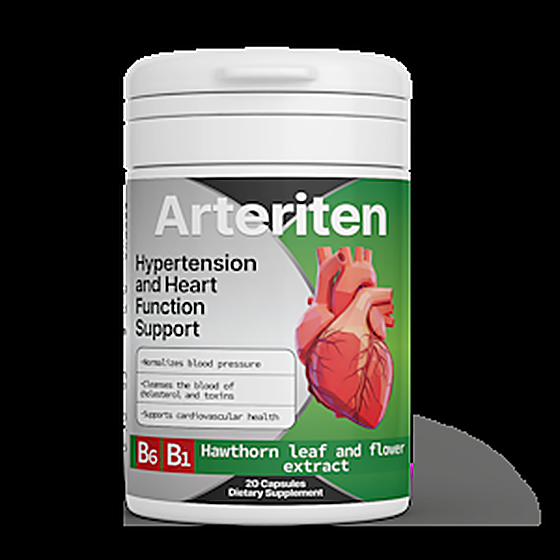
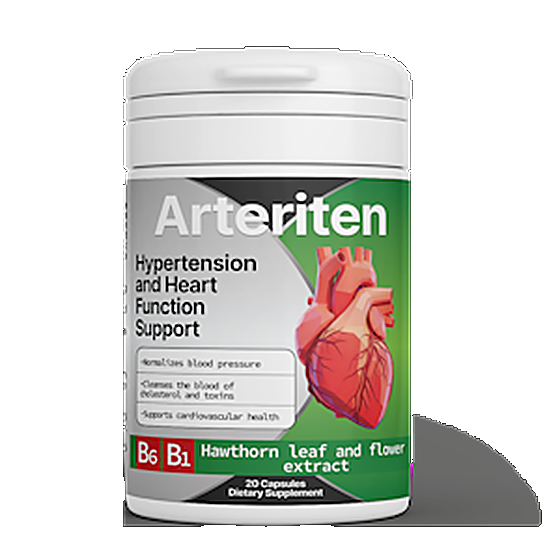
Фото: белый фон вместо чёрного — 763 кадра заливкой, 223 перерисовкой с автопроверкой текста

diff --git a/index.html b/index.html
@@ -52,7 +52,7 @@
 <div class="wrap">
   <header><img src="favicon.png" alt=""><h1>Gamintojo parduotuvė</h1></header>
   <div class="intro"><p>Tiesioginis kasdienei savijautai skirtų produktų pardavimas.</p></div>
-  <div class="grid"><a class="card" href="/cp/abslim/"><div class="ph"><img src="img/lbhd-15182.png" alt="ABSlim" loading="lazy"></div><div class="name">ABSlim</div><div class="price">39 €</div><div class="btn">UŽSISAKYTI ORIGINALĄ</div></a><a class="card" href="/cp/adamour/"><div class="ph"><img src="img/cp-4641.jpg" alt="Adamour" loading="lazy"></div><div class="name">Adamour</div><div class="price">39 €</div><div class="btn">UŽSISAKYTI ORIGINALĄ</div></a><a class="card" href="/tl/alco-win/"><div class="ph"><img src="img/tlhd-13031.png" alt="Alco Win" loading="lazy"></div><div class="name">Alco Win</div><div class="price">90 €</div><div class="btn">UŽSISAKYTI ORIGINALĄ</div></a><a class="card" href="/cp/alvarix/"><div class="ph"><img src="img/cp-16305.jpg" alt="Alvarix" loading="lazy"></div><div class="name">Alvarix</div><div class="price">39 €</div><div class="btn">UŽSISAKYTI ORIGINALĄ</div></a><a class="card" href="/mc/arteriten/"><div class="ph"><img src="img/mchd-5166.png" alt="Arteriten" loading="lazy"></div><div class="name">Arteriten</div><div class="price">39 €</div><div class="btn">UŽSISAKYTI ORIGINALĄ</div></a><a class="card" href="/dc/articulor-balm/"><div class="ph"><img src="img/dccard-29938.png" alt="Articulor balm" loading="lazy"></div><div class="name">Articulor balm</div><div class="price">1 pak. NEMOKAMAI</div><div class="btn">UŽSISAKYTI ORIGINALĄ</div></a><a class="card" href="/m1/artizynt/"><div class="ph"><img src="img/trafficlight-artizynt.jpg" alt="ArtiZynt" loading="lazy"></div><div class="name">ArtiZynt</div><div class="price">39 €</div><div class="btn">UŽSISAKYTI ORIGINALĄ</div></a><a class="card" href="/mc/artizynt/"><div class="ph"><img src="img/mchd-5380.png" alt="ArtiZynt Caps" loading="lazy"></div><div class="name">ArtiZynt Caps</div><div class="price">29 €</div><div class="btn">UŽSISAKYTI ORIGINALĄ</div></a><a class="card" href="/dc/artizynt/"><div class="ph"><img src="img/dccard-28370.png" alt="ArtiZynt Capsules" loading="lazy"></div><div class="name">ArtiZynt Capsules</div><div class="price">39 €</div><div class="btn">UŽSISAKYTI ORIGINALĄ</div></a><a class="card" href="/m1/artizynt-gel/"><div class="ph"><img src="img/meta-artizynt-gel.jpg" alt="ArtiZynt Gel" loading="lazy"></div><div class="name">ArtiZynt Gel</div><div class="price">39 €</div><div class="btn">UŽSISAKYTI ORIGINALĄ</div></a><a class="card" href="/ev/ausen/"><div class="ph"><img src="img/hd-eve-1589.png" alt="Ausen" loading="lazy"></div><div class="name">Ausen</div><div class="price">39 €</div><div class="btn">UŽSISAKYTI ORIGINALĄ</div></a><a class="card" href="/sh/balancio/"><div class="ph"><img src="img/shhd-17586.png" alt="Balancio" loading="lazy"></div><div class="name">Balancio</div><div class="price">29 €</div><div class="btn">UŽSISAKYTI ORIGINALĄ</div></a><a class="card" href="/cp/beauty-age/"><div class="ph"><img src="img/cp-16307.jpg" alt="Beauty Age" loading="lazy"></div><div class="name">Beauty Age</div><div class="price">39 €</div><div class="btn">UŽSISAKYTI ORIGINALĄ</div></a><a class="card" href="/ev/beauty-age-skin/"><div class="ph"><img src="img/hd-eve-1013.png" alt="Beauty Age Skin" loading="lazy"></div><div class="name">Beauty Age Skin</div><div class="price">39 €</div><div class="btn">UŽSISAKYTI ORIGINALĄ</div></a><a class="card" href="/ev/beauty-age-skin-peeling/"><div class="ph"><img src="img/hd-eve-1329.png" alt="Beauty Age Skin Peeling" loading="lazy"></div><div class="name">Beauty Age Skin Peeling</div><div class="price">39 €</div><div class="btn">UŽSISAKYTI ORIGINALĄ</div></a><a class="card" href="/rp/bionetic/"><div class="ph"><img src="img/rphd-861.png" alt="Bionetic" loading="lazy"></div><div class="name">Bionetic</div><div class="price">39 €</div><div class="btn">UŽSISAKYTI ORIGINALĄ</div></a><a class="card" href="/cp/cardiform/"><div class="ph"><img src="img/everad-cardiform.png" alt="Cardiform" loading="lazy"></div><div class="name">Cardiform</div><div class="price">39 €</div><div class="btn">UŽSISAKYTI ORIGINALĄ</div></a><a class="card" href="/dc/cardiotens-plus/"><div class="ph"><img src="img/cat-met-5366.jpg" alt="Cardiotens plus" loading="lazy"></div><div class="name">Cardiotens plus</div><div class="price">39 €</div><div class="btn">UŽSISAKYTI ORIGINALĄ</div></a><a class="card" href="/rp/cleorix/"><div class="ph"><img src="img/hd-roc-1238.png" alt="Cleorix" loading="lazy"></div><div class="name">Cleorix</div><div class="price">39 €</div><div class="btn">UŽSISAKYTI ORIGINALĄ</div></a><a class="card" href="/cp/cystolax/"><div class="ph"><img src="img/cpagetti-cystolax.png" alt="Cystolax" loading="lazy"></div><div class="name">Cystolax</div><div class="price">39 €</div><div class="btn">UŽSISAKYTI ORIGINALĄ</div></a><a class="card" href="/cp/demyxil/"><div class="ph"><img src="img/everad-demyxil.png" alt="Demyxil" loading="lazy"></div><div class="name">Demyxil</div><div class="price">39 €</div><div class="btn">UŽSISAKYTI ORIGINALĄ</div></a><a class="card" href="/ev/depanten/"><div class="ph"><img src="img/hd-eve-1200.png" alt="Depanten" loading="lazy"></div><div class="name">Depanten</div><div class="price">39 €</div><div class="btn">UŽSISAKYTI ORIGINALĄ</div></a><a class="card" href="/cp/desalix/"><div class="ph"><img src="img/cat-drc-28679.jpg" alt="Desalix" loading="lazy"></div><div class="name">Desalix</div><div class="price">39 €</div><div class="btn">UŽSISAKYTI ORIGINALĄ</div></a><a class="card" href="/dc/dia-control/"><div class="ph"><img src="img/dccard-31469.png" alt="Dia Control caps" loading="lazy"></div><div class="name">Dia Control caps</div><div class="price">1 pak. NEMOKAMAI</div><div class="btn">UŽSISAKYTI ORIGINALĄ</div></a><a class="card" href="/dc/diacontrol/"><div class="ph"><img src="img/dccard-31464.png" alt="DiaControl caps" loading="lazy"></div><div class="name">DiaControl caps</div><div class="price">1 pak. NEMOKAMAI</div><div class="btn">UŽSISAKYTI ORIGINALĄ</div></a><a class="card" href="/cp/diaform/"><div class="ph"><img src="img/ev-cab-diaform.png" alt="Diaform+" loading="lazy"></div><div class="name">Diaform+</div><div class="price">39 €</div><div class="btn">UŽSISAKYTI ORIGINALĄ</div></a><a class="card" href="/mc/diaformrx/"><div class="ph"><img src="img/drcash-diaformrx.png" alt="DiaformRX" loading="lazy"></div><div class="name">DiaformRX</div><div class="price">39 €</div><div class="btn">UŽSISAKYTI ORIGINALĄ</div></a><a class="card" href="/tl/diaquilin/"><div class="ph"><img src="img/tlhd-15400.png" alt="DiaQuilin" loading="lazy"></div><div class="name">DiaQuilin</div><div class="price">99 €</div><div class="btn">UŽSISAKYTI ORIGINALĄ</div></a><a class="card" href="/tl/dm-norm/"><div class="ph"><img src="img/tlhd-13077.jpg" alt="DM-Norm" loading="lazy"></div><div class="name">DM-Norm</div><div class="price">90 €</div><div class="btn">UŽSISAKYTI ORIGINALĄ</div></a><a class="card" href="/dc/erectogen/"><div class="ph"><img src="img/dccard-30044.png" alt="Erectogen Caps" loading="lazy"></div><div class="name">Erectogen Caps</div><div class="price">1 pak. NEMOKAMAI</div><div class="btn">UŽSISAKYTI ORIGINALĄ</div></a><a class="card" href="/kma/eudalie/"><div class="ph"><img src="img/kmahd-11003.png" alt="Eudalie" loading="lazy"></div><div class="name">Eudalie</div><div class="price">29 €</div><div class="btn">UŽSISAKYTI ORIGINALĄ</div></a><a class="card" href="/m1/exofeet-oil/"><div class="ph"><img src="img/land-m1-6255.png" alt="Exofeet Oil" loading="lazy"></div><div class="name">Exofeet Oil</div><div class="price">39 €</div><div class="btn">UŽSISAKYTI ORIGINALĄ</div></a><a class="card" href="/cp/exurol/"><div class="ph"><img src="img/drcash-exurol.png" alt="Exurol" loading="lazy"></div><div class="name">Exurol</div><div class="price">39 €</div><div class="btn">UŽSISAKYTI ORIGINALĄ</div></a><a class="card" href="/dc/farmacin-drops/"><div class="ph"><img src="img/dccard-30382.png" alt="FARMACIN Drops" loading="lazy"></div><div class="name">FARMACIN Drops</div><div class="price">1 pak. NEMOKAMAI</div><div class="btn">UŽSISAKYTI ORIGINALĄ</div></a><a class="card" href="/cp/femixal/"><div class="ph"><img src="img/ev-cab-femixal.png" alt="Femixal" loading="lazy"></div><div class="name">Femixal</div><div class="price">39 €</div><div class="btn">UŽSISAKYTI ORIGINALĄ</div></a><a class="card" href="/tl/flexosamine/"><div class="ph"><img src="img/tlhd-7695.jpg" alt="Flexosamine" loading="lazy"></div><div class="name">Flexosamine</div><div class="price">39 €</div><div class="btn">UŽSISAKYTI ORIGINALĄ</div></a><a class="card" href="/dc/flexosamine-gel/"><div class="ph"><img src="img/drcash-flexosamine-gel.png" alt="Flexosamine gel" loading="lazy"></div><div class="name">Flexosamine gel</div><div class="price">1 pak. NEMOKAMAI</div><div class="btn">UŽSISAKYTI ORIGINALĄ</div></a><a class="card" href="/dc/flexosamine-pro/"><div class="ph"><img src="img/fix-kma-flexosamine-89.jpg" alt="Flexosamine PRO" loading="lazy"></div><div class="name">Flexosamine PRO</div><div class="price">39 €</div><div class="btn">UŽSISAKYTI ORIGINALĄ</div></a><a class="card" href="/sh/gigant/"><div class="ph"><img src="img/lbhd-3762.png" alt="Gigant" loading="lazy"></div><div class="name">Gigant</div><div class="price">39 €</div><div class="btn">UŽSISAKYTI ORIGINALĄ</div></a><a class="card" href="/cp/glucadin/"><div class="ph"><img src="img/cp-18019.jpg" alt="Glucadin" loading="lazy"></div><div class="name">Glucadin</div><div class="price">39 €</div><div class="btn">UŽSISAKYTI ORIGINALĄ</div></a><a class="card" href="/cp/gluconix/"><div class="ph"><img src="img/kma-gluconix.webp" alt="Gluconix" loading="lazy"></div><div class="name">Gluconix</div><div class="price">29 €</div><div class="btn">UŽSISAKYTI ORIGINALĄ</div></a><a class="card" href="/rp/guavital/"><div class="ph"><img src="img/rphd-791.png" alt="Guavital Caps" loading="lazy"></div><div class="name">Guavital Caps</div><div class="price">39 €</div><div class="btn">UŽSISAKYTI ORIGINALĄ</div></a><a class="card" href="/m1/guavital/"><div class="ph"><img src="img/m1card-4326.jpg" alt="Guavital+" loading="lazy"></div><div class="name">Guavital+</div><div class="price">39 €</div><div class="btn">UŽSISAKYTI ORIGINALĄ</div></a><a class="card" href="/sh/hondrofrost/"><div class="ph"><img src="img/trafficlight-hondrofrost.webp" alt="Hondrofrost" loading="lazy"></div><div class="name">Hondrofrost</div><div class="price">39 €</div><div class="btn">UŽSISAKYTI ORIGINALĄ</div></a><a class="card" href="/cp/hondroine/"><div class="ph"><img src="img/leadbit-hondroine.png" alt="Hondroine" loading="lazy"></div><div class="name">Hondroine</div><div class="price">39 €</div><div class="btn">UŽSISAKYTI ORIGINALĄ</div></a><a class="card" href="/sh/hondroten/"><div class="ph"><img src="img/shhd-17844.png" alt="Hondroten" loading="lazy"></div><div class="name">Hondroten</div><div class="price">29 €</div><div class="btn">UŽSISAKYTI ORIGINALĄ</div></a><a class="card" href="/tl/hyperon-active/"><div class="ph"><img src="img/tlhd-13078.jpg" alt="Hyperon Active" loading="lazy"></div><div class="name">Hyperon Active</div><div class="price">90 €</div><div class="btn">UŽSISAKYTI ORIGINALĄ</div></a><a class="card" href="/mc/hyperton/"><div class="ph"><img src="img/cat-met-2765.jpg" alt="Hyperton Caps" loading="lazy"></div><div class="name">Hyperton Caps</div><div class="price">1 pak. NEMOKAMAI</div><div class="btn">UŽSISAKYTI ORIGINALĄ</div></a></div>
+  <div class="grid"><a class="card" href="/cp/abslim/"><div class="ph"><img src="img/lbhd-15182.png" alt="ABSlim" loading="lazy"></div><div class="name">ABSlim</div><div class="price">39 €</div><div class="btn">UŽSISAKYTI ORIGINALĄ</div></a><a class="card" href="/cp/adamour/"><div class="ph"><img src="img/cp-4641.jpg" alt="Adamour" loading="lazy"></div><div class="name">Adamour</div><div class="price">39 €</div><div class="btn">UŽSISAKYTI ORIGINALĄ</div></a><a class="card" href="/tl/alco-win/"><div class="ph"><img src="img/tlhd-13031.png" alt="Alco Win" loading="lazy"></div><div class="name">Alco Win</div><div class="price">90 €</div><div class="btn">UŽSISAKYTI ORIGINALĄ</div></a><a class="card" href="/cp/alvarix/"><div class="ph"><img src="img/cp-16305.jpg" alt="Alvarix" loading="lazy"></div><div class="name">Alvarix</div><div class="price">39 €</div><div class="btn">UŽSISAKYTI ORIGINALĄ</div></a><a class="card" href="/mc/arteriten/"><div class="ph"><img src="img/mchd-5166.png" alt="Arteriten" loading="lazy"></div><div class="name">Arteriten</div><div class="price">39 €</div><div class="btn">UŽSISAKYTI ORIGINALĄ</div></a><a class="card" href="/dc/articulor-balm/"><div class="ph"><img src="img/dccard-29938.png" alt="Articulor balm" loading="lazy"></div><div class="name">Articulor balm</div><div class="price">1 pak. NEMOKAMAI</div><div class="btn">UŽSISAKYTI ORIGINALĄ</div></a><a class="card" href="/m1/artizynt/"><div class="ph"><img src="img/trafficlight-artizynt.jpg" alt="ArtiZynt" loading="lazy"></div><div class="name">ArtiZynt</div><div class="price">39 €</div><div class="btn">UŽSISAKYTI ORIGINALĄ</div></a><a class="card" href="/mc/artizynt/"><div class="ph"><img src="img/mchd-5380.png" alt="ArtiZynt Caps" loading="lazy"></div><div class="name">ArtiZynt Caps</div><div class="price">29 €</div><div class="btn">UŽSISAKYTI ORIGINALĄ</div></a><a class="card" href="/dc/artizynt/"><div class="ph"><img src="img/dccard-28370.png" alt="ArtiZynt Capsules" loading="lazy"></div><div class="name">ArtiZynt Capsules</div><div class="price">39 €</div><div class="btn">UŽSISAKYTI ORIGINALĄ</div></a><a class="card" href="/m1/artizynt-gel/"><div class="ph"><img src="img/meta-artizynt-gel.jpg" alt="ArtiZynt Gel" loading="lazy"></div><div class="name">ArtiZynt Gel</div><div class="price">39 €</div><div class="btn">UŽSISAKYTI ORIGINALĄ</div></a><a class="card" href="/ev/ausen/"><div class="ph"><img src="img/hd-eve-1589.png" alt="Ausen" loading="lazy"></div><div class="name">Ausen</div><div class="price">39 €</div><div class="btn">UŽSISAKYTI ORIGINALĄ</div></a><a class="card" href="/sh/balancio/"><div class="ph"><img src="img/shhd-17586.png" alt="Balancio" loading="lazy"></div><div class="name">Balancio</div><div class="price">29 €</div><div class="btn">UŽSISAKYTI ORIGINALĄ</div></a><a class="card" href="/cp/beauty-age/"><div class="ph"><img src="img/cp-16307.jpg" alt="Beauty Age" loading="lazy"></div><div class="name">Beauty Age</div><div class="price">39 €</div><div class="btn">UŽSISAKYTI ORIGINALĄ</div></a><a class="card" href="/ev/beauty-age-skin/"><div class="ph"><img src="img/hd-eve-1013.png" alt="Beauty Age Skin" loading="lazy"></div><div class="name">Beauty Age Skin</div><div class="price">39 €</div><div class="btn">UŽSISAKYTI ORIGINALĄ</div></a><a class="card" href="/ev/beauty-age-skin-peeling/"><div class="ph"><img src="img/hd-eve-1329.png" alt="Beauty Age Skin Peeling" loading="lazy"></div><div class="name">Beauty Age Skin Peeling</div><div class="price">39 €</div><div class="btn">UŽSISAKYTI ORIGINALĄ</div></a><a class="card" href="/rp/bionetic/"><div class="ph"><img src="img/rphd-861.png" alt="Bionetic" loading="lazy"></div><div class="name">Bionetic</div><div class="price">39 €</div><div class="btn">UŽSISAKYTI ORIGINALĄ</div></a><a class="card" href="/cp/cardiform/"><div class="ph"><img src="img/everad-cardiform.png" alt="Cardiform" loading="lazy"></div><div class="name">Cardiform</div><div class="price">39 €</div><div class="btn">UŽSISAKYTI ORIGINALĄ</div></a><a class="card" href="/dc/cardiotens-plus/"><div class="ph"><img src="img/cat-met-5366.jpg" alt="Cardiotens plus" loading="lazy"></div><div class="name">Cardiotens plus</div><div class="price">39 €</div><div class="btn">UŽSISAKYTI ORIGINALĄ</div></a><a class="card" href="/rp/cleorix/"><div class="ph"><img src="img/hd-roc-1238.png" alt="Cleorix" loading="lazy"></div><div class="name">Cleorix</div><div class="price">39 €</div><div class="btn">UŽSISAKYTI ORIGINALĄ</div></a><a class="card" href="/cp/cystolax/"><div class="ph"><img src="img/cpagetti-cystolax.png" alt="Cystolax" loading="lazy"></div><div class="name">Cystolax</div><div class="price">39 €</div><div class="btn">UŽSISAKYTI ORIGINALĄ</div></a><a class="card" href="/cp/demyxil/"><div class="ph"><img src="img/redraw-everad-demyxil.png" alt="Demyxil" loading="lazy"></div><div class="name">Demyxil</div><div class="price">39 €</div><div class="btn">UŽSISAKYTI ORIGINALĄ</div></a><a class="card" href="/ev/depanten/"><div class="ph"><img src="img/hd-eve-1200.png" alt="Depanten" loading="lazy"></div><div class="name">Depanten</div><div class="price">39 €</div><div class="btn">UŽSISAKYTI ORIGINALĄ</div></a><a class="card" href="/cp/desalix/"><div class="ph"><img src="img/cat-drc-28679.jpg" alt="Desalix" loading="lazy"></div><div class="name">Desalix</div><div class="price">39 €</div><div class="btn">UŽSISAKYTI ORIGINALĄ</div></a><a class="card" href="/dc/dia-control/"><div class="ph"><img src="img/dccard-31469.png" alt="Dia Control caps" loading="lazy"></div><div class="name">Dia Control caps</div><div class="price">1 pak. NEMOKAMAI</div><div class="btn">UŽSISAKYTI ORIGINALĄ</div></a><a class="card" href="/dc/diacontrol/"><div class="ph"><img src="img/dccard-31464.png" alt="DiaControl caps" loading="lazy"></div><div class="name">DiaControl caps</div><div class="price">1 pak. NEMOKAMAI</div><div class="btn">UŽSISAKYTI ORIGINALĄ</div></a><a class="card" href="/cp/diaform/"><div class="ph"><img src="img/ev-cab-diaform.png" alt="Diaform+" loading="lazy"></div><div class="name">Diaform+</div><div class="price">39 €</div><div class="btn">UŽSISAKYTI ORIGINALĄ</div></a><a class="card" href="/mc/diaformrx/"><div class="ph"><img src="img/drcash-diaformrx.png" alt="DiaformRX" loading="lazy"></div><div class="name">DiaformRX</div><div class="price">39 €</div><div class="btn">UŽSISAKYTI ORIGINALĄ</div></a><a class="card" href="/tl/diaquilin/"><div class="ph"><img src="img/tlhd-15400.png" alt="DiaQuilin" loading="lazy"></div><div class="name">DiaQuilin</div><div class="price">99 €</div><div class="btn">UŽSISAKYTI ORIGINALĄ</div></a><a class="card" href="/tl/dm-norm/"><div class="ph"><img src="img/tlhd-13077.jpg" alt="DM-Norm" loading="lazy"></div><div class="name">DM-Norm</div><div class="price">90 €</div><div class="btn">UŽSISAKYTI ORIGINALĄ</div></a><a class="card" href="/dc/erectogen/"><div class="ph"><img src="img/dccard-30044.png" alt="Erectogen Caps" loading="lazy"></div><div class="name">Erectogen Caps</div><div class="price">1 pak. NEMOKAMAI</div><div class="btn">UŽSISAKYTI ORIGINALĄ</div></a><a class="card" href="/kma/eudalie/"><div class="ph"><img src="img/kmahd-11003.png" alt="Eudalie" loading="lazy"></div><div class="name">Eudalie</div><div class="price">29 €</div><div class="btn">UŽSISAKYTI ORIGINALĄ</div></a><a class="card" href="/m1/exofeet-oil/"><div class="ph"><img src="img/redraw-land-m1-6255.png" alt="Exofeet Oil" loading="lazy"></div><div class="name">Exofeet Oil</div><div class="price">39 €</div><div class="btn">UŽSISAKYTI ORIGINALĄ</div></a><a class="card" href="/cp/exurol/"><div class="ph"><img src="img/drcash-exurol.png" alt="Exurol" loading="lazy"></div><div class="name">Exurol</div><div class="price">39 €</div><div class="btn">UŽSISAKYTI ORIGINALĄ</div></a><a class="card" href="/dc/farmacin-drops/"><div class="ph"><img src="img/dccard-30382.png" alt="FARMACIN Drops" loading="lazy"></div><div class="name">FARMACIN Drops</div><div class="price">1 pak. NEMOKAMAI</div><div class="btn">UŽSISAKYTI ORIGINALĄ</div></a><a class="card" href="/cp/femixal/"><div class="ph"><img src="img/ev-cab-femixal.png" alt="Femixal" loading="lazy"></div><div class="name">Femixal</div><div class="price">39 €</div><div class="btn">UŽSISAKYTI ORIGINALĄ</div></a><a class="card" href="/tl/flexosamine/"><div class="ph"><img src="img/tlhd-7695.jpg" alt="Flexosamine" loading="lazy"></div><div class="name">Flexosamine</div><div class="price">39 €</div><div class="btn">UŽSISAKYTI ORIGINALĄ</div></a><a class="card" href="/dc/flexosamine-gel/"><div class="ph"><img src="img/drcash-flexosamine-gel.png" alt="Flexosamine gel" loading="lazy"></div><div class="name">Flexosamine gel</div><div class="price">1 pak. NEMOKAMAI</div><div class="btn">UŽSISAKYTI ORIGINALĄ</div></a><a class="card" href="/dc/flexosamine-pro/"><div class="ph"><img src="img/fix-kma-flexosamine-89.jpg" alt="Flexosamine PRO" loading="lazy"></div><div class="name">Flexosamine PRO</div><div class="price">39 €</div><div class="btn">UŽSISAKYTI ORIGINALĄ</div></a><a class="card" href="/sh/gigant/"><div class="ph"><img src="img/lbhd-3762.png" alt="Gigant" loading="lazy"></div><div class="name">Gigant</div><div class="price">39 €</div><div class="btn">UŽSISAKYTI ORIGINALĄ</div></a><a class="card" href="/cp/glucadin/"><div class="ph"><img src="img/cp-18019.jpg" alt="Glucadin" loading="lazy"></div><div class="name">Glucadin</div><div class="price">39 €</div><div class="btn">UŽSISAKYTI ORIGINALĄ</div></a><a class="card" href="/cp/gluconix/"><div class="ph"><img src="img/kma-gluconix.webp" alt="Gluconix" loading="lazy"></div><div class="name">Gluconix</div><div class="price">29 €</div><div class="btn">UŽSISAKYTI ORIGINALĄ</div></a><a class="card" href="/rp/guavital/"><div class="ph"><img src="img/rphd-791.png" alt="Guavital Caps" loading="lazy"></div><div class="name">Guavital Caps</div><div class="price">39 €</div><div class="btn">UŽSISAKYTI ORIGINALĄ</div></a><a class="card" href="/m1/guavital/"><div class="ph"><img src="img/m1card-4326.jpg" alt="Guavital+" loading="lazy"></div><div class="name">Guavital+</div><div class="price">39 €</div><div class="btn">UŽSISAKYTI ORIGINALĄ</div></a><a class="card" href="/sh/hondrofrost/"><div class="ph"><img src="img/trafficlight-hondrofrost.webp" alt="Hondrofrost" loading="lazy"></div><div class="name">Hondrofrost</div><div class="price">39 €</div><div class="btn">UŽSISAKYTI ORIGINALĄ</div></a><a class="card" href="/cp/hondroine/"><div class="ph"><img src="img/leadbit-hondroine.png" alt="Hondroine" loading="lazy"></div><div class="name">Hondroine</div><div class="price">39 €</div><div class="btn">UŽSISAKYTI ORIGINALĄ</div></a><a class="card" href="/sh/hondroten/"><div class="ph"><img src="img/shhd-17844.png" alt="Hondroten" loading="lazy"></div><div class="name">Hondroten</div><div class="price">29 €</div><div class="btn">UŽSISAKYTI ORIGINALĄ</div></a><a class="card" href="/tl/hyperon-active/"><div class="ph"><img src="img/tlhd-13078.jpg" alt="Hyperon Active" loading="lazy"></div><div class="name">Hyperon Active</div><div class="price">90 €</div><div class="btn">UŽSISAKYTI ORIGINALĄ</div></a><a class="card" href="/mc/hyperton/"><div class="ph"><img src="img/redraw-cat-met-2765.png" alt="Hyperton Caps" loading="lazy"></div><div class="name">Hyperton Caps</div><div class="price">1 pak. NEMOKAMAI</div><div class="btn">UŽSISAKYTI ORIGINALĄ</div></a></div>
   <footer><a href="privacy.html">Privatumo politika</a><a href="terms.html">Pirkimo sąlygos</a><a href="kontakt.html">Kontaktai</a><a href="about.html">Apie mus</a><span>fazalstrk@gmail.com</span><span>© 2026</span></footer>
 </div>
 </body>

diff --git a/cp/optiheart/index.html b/cp/optiheart/index.html
@@ -260,7 +260,7 @@ body.free .disc,body:not(.free) .nodisc{display:none}
       <div>
         <div class="product-card">
           <span class="disc-ribbon disc">-50%</span>
-          <img src="../../img/drcash-optiheart.png" alt="Optiheart">
+          <img src="../../img/redraw-drcash-optiheart.png" alt="Optiheart">
           <div><span class="ribbon">Originalas</span><div class="shotcap">Originali pakuotė su plomba ir partijos numeriu</div></div>
         </div>
       </div>

diff --git a/m1/exofeet-oil/index.html b/m1/exofeet-oil/index.html
@@ -260,7 +260,7 @@ body.free .disc,body:not(.free) .nodisc{display:none}
       <div>
         <div class="product-card">
           <span class="disc-ribbon disc">-50%</span>
-          <img src="../../img/land-m1-6255.png" alt="Exofeet Oil">
+          <img src="../../img/redraw-land-m1-6255.png" alt="Exofeet Oil">
           <div><span class="ribbon">Originalas</span><div class="shotcap">Originali pakuotė su plomba ir partijos numeriu</div></div>
         </div>
       </div>

diff --git a/mc/hyperton/index.html b/mc/hyperton/index.html
@@ -260,7 +260,7 @@ body.free .disc,body:not(.free) .nodisc{display:none}
       <div>
         <div class="product-card">
           <span class="disc-ribbon disc"></span>
-          <img src="../../img/cat-met-2765.jpg" alt="Hyperton Caps">
+          <img src="../../img/redraw-cat-met-2765.png" alt="Hyperton Caps">
           <div><span class="ribbon">Nemokamai</span><div class="shotcap">Originali pakuotė su plomba ir partijos numeriu</div></div>
         </div>
       </div>

diff --git a/cp/demyxil-14221/index.html b/cp/demyxil-14221/index.html
@@ -260,7 +260,7 @@ body.free .disc,body:not(.free) .nodisc{display:none}
       <div>
         <div class="product-card">
           <span class="disc-ribbon disc">-50%</span>
-          <img src="../../img/everad-demyxil.png" alt="Demyxil">
+          <img src="../../img/redraw-everad-demyxil.png" alt="Demyxil">
           <div><span class="ribbon">Originalas</span><div class="shotcap">Originali pakuotė su plomba ir partijos numeriu</div></div>
         </div>
       </div>

diff --git a/cp/demyxil/index.html b/cp/demyxil/index.html
@@ -260,7 +260,7 @@ body.free .disc,body:not(.free) .nodisc{display:none}
       <div>
         <div class="product-card">
           <span class="disc-ribbon disc">-50%</span>
-          <img src="../../img/everad-demyxil.png" alt="Demyxil">
+          <img src="../../img/redraw-everad-demyxil.png" alt="Demyxil">
           <div><span class="ribbon">Originalas</span><div class="shotcap">Originali pakuotė su plomba ir partijos numeriu</div></div>
         </div>
       </div>

diff --git a/tl/prostaone/index.html b/tl/prostaone/index.html
@@ -260,7 +260,7 @@ body.free .disc,body:not(.free) .nodisc{display:none}
       <div>
         <div class="product-card">
           <span class="disc-ribbon disc">-50%</span>
-          <img src="../../img/tlhd-23417.webp" alt="ProstaOne">
+          <img src="../../img/redraw-tlhd-23417.png" alt="ProstaOne">
           <div><span class="ribbon">Originalas</span><div class="shotcap">Originali pakuotė su plomba ir partijos numeriu</div></div>
         </div>
       </div>

diff --git a/tl/gluconix-24068/index.html b/tl/gluconix-24068/index.html
@@ -260,7 +260,7 @@ body.free .disc,body:not(.free) .nodisc{display:none}
       <div>
         <div class="product-card">
           <span class="disc-ribbon disc">-50%</span>
-          <img src="../../img/tlhd-24068.png" alt="Gluconix">
+          <img src="../../img/redraw-tlhd-24068.png" alt="Gluconix">
           <div><span class="ribbon">Originalas</span><div class="shotcap">Originali pakuotė su plomba ir partijos numeriu</div></div>
         </div>
       </div>

diff --git a/tl/gluconix/index.html b/tl/gluconix/index.html
@@ -260,7 +260,7 @@ body.free .disc,body:not(.free) .nodisc{display:none}
       <div>
         <div class="product-card">
           <span class="disc-ribbon disc">-50%</span>
-          <img src="../../img/tlhd-23334.png" alt="Gluconix">
+          <img src="../../img/redraw-tlhd-23334.png" alt="Gluconix">
           <div><span class="ribbon">Originalas</span><div class="shotcap">Originali pakuotė su plomba ir partijos numeriu</div></div>
         </div>
       </div>

diff --git a/mc/gluconix-5235/index.html b/mc/gluconix-5235/index.html
@@ -260,7 +260,7 @@ body.free .disc,body:not(.free) .nodisc{display:none}
       <div>
         <div class="product-card">
           <span class="disc-ribbon disc">-50%</span>
-          <img src="../../img/mchd-5235.png" alt="Gluconix">
+          <img src="../../img/redraw-mchd-5235.png" alt="Gluconix">
           <div><span class="ribbon">Originalas</span><div class="shotcap">Originali pakuotė su plomba ir partijos numeriu</div></div>
         </div>
       </div>

diff --git a/mc/gluconix/index.html b/mc/gluconix/index.html
@@ -260,7 +260,7 @@ body.free .disc,body:not(.free) .nodisc{display:none}
       <div>
         <div class="product-card">
           <span class="disc-ribbon disc">-50%</span>
-          <img src="../../img/mchd-5160.png" alt="Gluconix">
+          <img src="../../img/redraw-mchd-5160.png" alt="Gluconix">
           <div><span class="ribbon">Originalas</span><div class="shotcap">Originali pakuotė su plomba ir partijos numeriu</div></div>
         </div>
       </div>

diff --git a/kma/oculax/index.html b/kma/oculax/index.html
@@ -260,7 +260,7 @@ body.free .disc,body:not(.free) .nodisc{display:none}
       <div>
         <div class="product-card">
           <span class="disc-ribbon disc">-50%</span>
-          <img src="../../img/kmahd-6054.png" alt="Oculax">
+          <img src="../../img/redraw-kmahd-6054.png" alt="Oculax">
           <div><span class="ribbon">Originalas</span><div class="shotcap">Originali pakuotė su plomba ir partijos numeriu</div></div>
         </div>
       </div>
